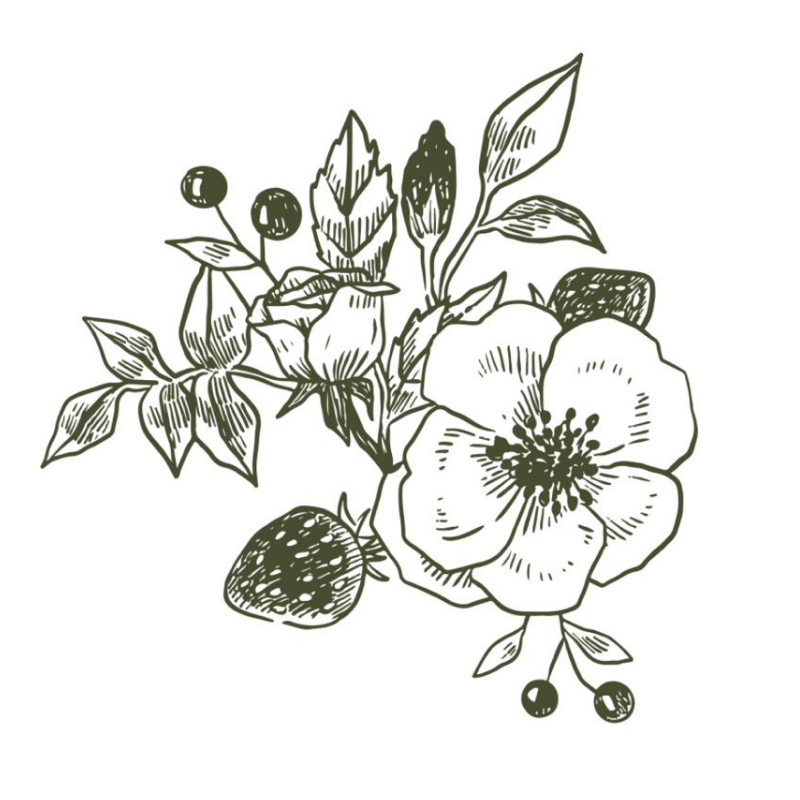
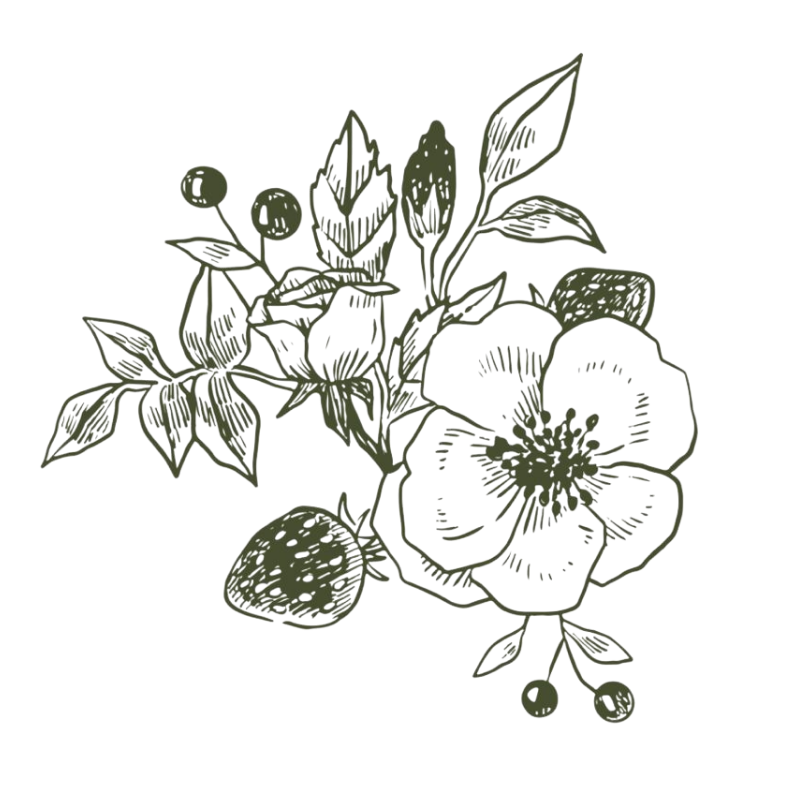
fix: update cursor styles and implement custom cursor functionality

diff --git a/index.html b/index.html
@@ -20,7 +20,7 @@
     }
 
     :root {
-   --bg:        #E8E2D6; /* Fundo principal: body, hero, interlude, details, dress-code */
+      --bg:        #E8E2D6; /* Fundo principal: body, hero, interlude, details, dress-code */
       --bg2:       #D6CBB7; /* Fundo secundário: scrollbar, interlude, gallery, bordas */
         /* VERDE (BASE DO DESIGN) */
       --olive:     #464D30; /* Verde principal (mais sofisticado que o anterior) */
@@ -49,6 +49,7 @@
       font-family: var(--body);
       font-size: clamp(16px, 1.2vw, 20px);
       overflow-x: hidden;
+       cursor: none;
       -webkit-font-smoothing: antialiased;
     }
 
@@ -65,6 +66,29 @@
     ::-webkit-scrollbar { width: 4px; }
     ::-webkit-scrollbar-track { background: var(--bg2); }
     ::-webkit-scrollbar-thumb { background: var(--olive); border-radius: 2px; }
+
+     /* ─── Cursor ─────────────────────────────────────────────── */
+    .cursor {
+      position: fixed;
+      width: 10px; height: 10px;
+      background: var(--white);
+      border-radius: 50%;
+      pointer-events: none;
+      z-index: 10000;
+      transform: translate(-50%, -50%);
+      transition: transform 0.1s, width 0.3s var(--ease-silk), height 0.3s var(--ease-silk), background 0.3s;
+    }
+    .cursor-ring {
+      position: fixed;
+      width: 36px; height: 36px;
+      border: 1px solid var(--white);
+      border-radius: 50%;
+      pointer-events: none;
+      z-index: 9998;
+      transform: translate(-50%, -50%);
+      transition: transform 0.15s var(--ease-silk), width 0.4s var(--ease-silk), height 0.4s var(--ease-silk), opacity 0.4s;
+      opacity: 0.65;
+    }
 
     /* ═══════════════════════════════════════════
        COVER PAGE
@@ -104,8 +128,8 @@
 
     /* ── Flower video ── */
     .cover-flower-wrap {
-      width: clamp(140px, 16vw, 220px);
-      height: clamp(140px, 16vw, 220px);
+      width: clamp(250px, 16vw, 220px);
+      height: clamp(240px, 16vw, 220px);
       position: relative;
       margin-bottom: 20px;
       flex-shrink: 0;
@@ -235,7 +259,7 @@
       position: fixed;
       top: 0; left: 0; right: 0;
       z-index: 100;
-      padding: 24px 48px;
+      padding: 36px 48px;
       display: flex;
       align-items: center;
       justify-content: space-between;
@@ -248,7 +272,7 @@
       letter-spacing: 0.02em;
     }
     .nav-date {
-      font-size: 0.65rem;
+      font-size: 0.95rem;
       letter-spacing: 0.25em;
       text-transform: uppercase;
       color: var(--olive-lt);
@@ -582,7 +606,10 @@
       .scroll-line { animation: none; }
       .cover-frame, .cover-flower-wrap, .cover-names,
       .cover-rule, .cover-subtitle { animation: none; opacity: 1; }
+      .cursor, .cursor-ring { display: none; }
     }
+
+    
   </style>
 </head>
 <body>
@@ -590,6 +617,9 @@
 <!-- Progress bar -->
 <div id="progress-bar"></div>
 
+<!-- Custom cursor (desktop only) -->
+<div class="cursor" id="cursor"></div>
+<div class="cursor-ring" id="cursor-ring"></div>
 <!-- Nav -->
 <nav>
   <div class="nav-monogram">A & Y</div>
@@ -604,9 +634,12 @@
 
     <!-- Flower video -->
     <div class="cover-flower-wrap">
+      <!--
       <video class="cover-flower-video" autoplay muted loop playsinline>
         <source src="video-flor.mp4" type="video/mp4" />
       </video>
+      -->
+      <img src = "./image/flor-da-capa.png" alt="Flor decorativa" class="cover-flower-video" />
     </div>
 
     <!-- Names — centered block -->
@@ -810,9 +843,44 @@
 <script src="https://cdnjs.cloudflare.com/ajax/libs/gsap/3.12.5/gsap.min.js"></script>
 <script src="https://cdnjs.cloudflare.com/ajax/libs/gsap/3.12.5/ScrollTrigger.min.js"></script>
 <script>
-(function () {
+(
+function () {
   'use strict';
   gsap.registerPlugin(ScrollTrigger);
+  if (window.matchMedia('(pointer: fine)').matches) {
+      const cursor     = document.getElementById('cursor');
+      const cursorRing = document.getElementById('cursor-ring');
+
+      document.addEventListener('mousemove', (e) => {
+        cursor.style.left     = e.clientX + 'px';
+        cursor.style.top      = e.clientY + 'px';
+        cursorRing.style.left = e.clientX + 'px';
+        cursorRing.style.top  = e.clientY + 'px';
+      });
+
+      document.querySelectorAll('a, button').forEach(el => {
+        el.addEventListener('mouseenter', () => {
+          cursor.style.width  = '20px';
+          cursor.style.height = '20px';
+          cursorRing.style.width  = '56px';
+          cursorRing.style.height = '56px';
+          cursorRing.style.opacity = '0.3';
+        });
+        el.addEventListener('mouseleave', () => {
+          cursor.style.width  = '10px';
+          cursor.style.height = '10px';
+          cursorRing.style.width  = '36px';
+          cursorRing.style.height = '36px';
+          cursorRing.style.opacity = '0.5';
+        });
+      });
+    }
+
+    function isMobileScreen() {
+      return window.matchMedia('(pointer: coarse), (max-width: 768px)').matches;
+    }
+
+    let isMobileDevice = isMobileScreen();
 
   // Progress bar
   const bar = document.getElementById('progress-bar');
